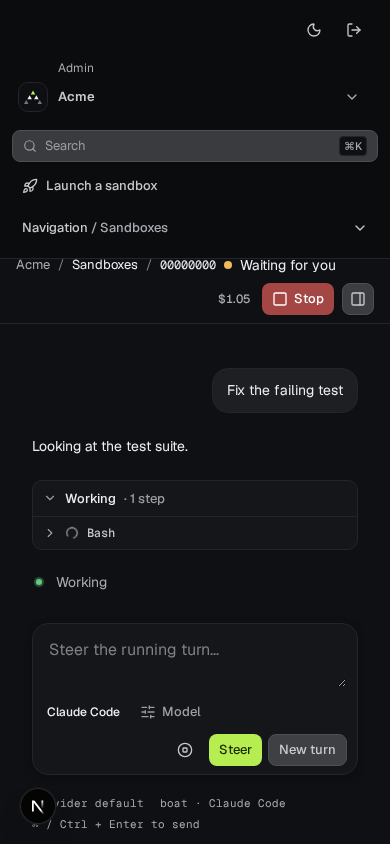
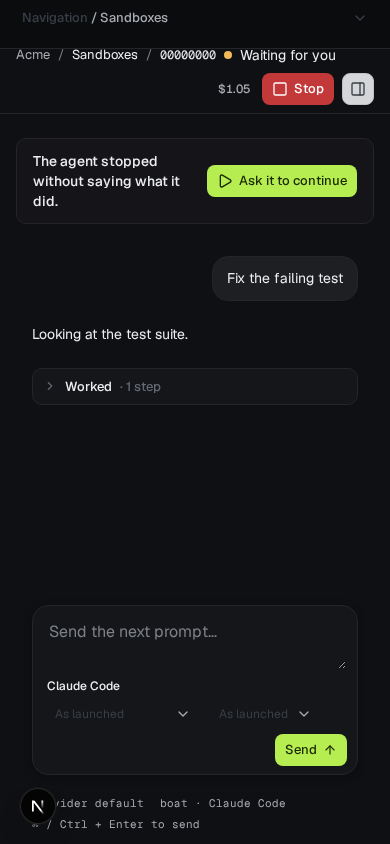
docs(dashboard): expand thread state and organization comparisons

diff --git a/docs/investigations/2511/README.md b/docs/investigations/2511/README.md
@@ -1,45 +1,89 @@
 # Sandbox thread fidelity evidence (#2511)
 
-Captured in this delivery session using Playwright Chromium 1254, the prototype served with `python3 -m http.server 8091 --directory docs/design/refonte-2026-11-16`, and fixture dashboard `bun run dev`. Linux libraries and font configuration were supplied under `/tmp`; no deployed service or provider was used.
+Current-session Playwright Chromium 1254 captures of prototype `Armada.dc.html`, served with `python3 -m http.server 8091 --directory docs/design/refonte-2026-11-16`, and fixture dashboard `bun run dev`. Source: `6eba3b417b3d788bb2a4d3808897939364fac7db`. Linux libraries/fonts were supplied locally under `/tmp`. No deployed service or provider was used.
 
-The fixture is Acme, signed in as Alice. Working uses the default recorded prompt/message/tool events. Other lifecycle captures change only the sandbox status with the existing fixture lifecycle endpoint; the retained history is unchanged. These are comparisons of layout/state controls, not identical task content. Prototype phone rows were selected by dispatching their click event because the prototype overlay intercepts pointer input.
+The default organization is Acme, signed in as Alice. Working uses the default recorded events. Waiting/stopped/failed use the existing fixture lifecycle/event endpoints, with completed or failed prompt outcomes and retained tool results. Starting retains queued/previous history. The diff captures use recorded Edit old/new payloads and Bash command/result events. Large captures use its existing seeded owner-visible sandboxes. An expired deadline is a lifecycle notice, not an invented `expired` sandbox status. Its prototype cell is empty because the prototype offers no dedicated expired thread.
 
-| State / viewport / theme | Prototype | Fixture |
+These compare layout and supported controls across different task content; they do not assert identical business data. Prototype phone rows were selected by dispatching click events because its fixed-width overlay intercepts pointer input. The prototype itself clips horizontally at 390px; the fixture retains a usable phone layout.
+
+| Organization / state / size / theme | Prototype | Fixture |
 | --- | --- | --- |
-| working / 1440×900 / dark | ![Prototype working-desktop-dark](prototype-working-desktop-dark.png) | ![Fixture working-desktop-dark](fixture-working-desktop-dark.png) |
-| working / 1440×900 / light | ![Prototype working-desktop-light](prototype-working-desktop-light.png) | ![Fixture working-desktop-light](fixture-working-desktop-light.png) |
-| working / 390×844 / dark | ![Prototype working-phone-dark](prototype-working-phone-dark.png) | ![Fixture working-phone-dark](fixture-working-phone-dark.png) |
-| working / 390×844 / light | ![Prototype working-phone-light](prototype-working-phone-light.png) | ![Fixture working-phone-light](fixture-working-phone-light.png) |
-| waiting / 1440×900 / dark | ![Prototype waiting-desktop-dark](prototype-waiting-desktop-dark.png) | ![Fixture waiting-desktop-dark](fixture-waiting-desktop-dark.png) |
-| waiting / 1440×900 / light | ![Prototype waiting-desktop-light](prototype-waiting-desktop-light.png) | ![Fixture waiting-desktop-light](fixture-waiting-desktop-light.png) |
-| waiting / 390×844 / dark | ![Prototype waiting-phone-dark](prototype-waiting-phone-dark.png) | ![Fixture waiting-phone-dark](fixture-waiting-phone-dark.png) |
-| waiting / 390×844 / light | ![Prototype waiting-phone-light](prototype-waiting-phone-light.png) | ![Fixture waiting-phone-light](fixture-waiting-phone-light.png) |
-| stopped / 1440×900 / dark | ![Prototype stopped-desktop-dark](prototype-stopped-desktop-dark.png) | ![Fixture stopped-desktop-dark](fixture-stopped-desktop-dark.png) |
-| stopped / 1440×900 / light | ![Prototype stopped-desktop-light](prototype-stopped-desktop-light.png) | ![Fixture stopped-desktop-light](fixture-stopped-desktop-light.png) |
-| stopped / 390×844 / dark | ![Prototype stopped-phone-dark](prototype-stopped-phone-dark.png) | ![Fixture stopped-phone-dark](fixture-stopped-phone-dark.png) |
-| stopped / 390×844 / light | ![Prototype stopped-phone-light](prototype-stopped-phone-light.png) | ![Fixture stopped-phone-light](fixture-stopped-phone-light.png) |
-| failed / 1440×900 / dark | ![Prototype failed-desktop-dark](prototype-failed-desktop-dark.png) | ![Fixture failed-desktop-dark](fixture-failed-desktop-dark.png) |
-| failed / 1440×900 / light | ![Prototype failed-desktop-light](prototype-failed-desktop-light.png) | ![Fixture failed-desktop-light](fixture-failed-desktop-light.png) |
-| failed / 390×844 / dark | ![Prototype failed-phone-dark](prototype-failed-phone-dark.png) | ![Fixture failed-phone-dark](fixture-failed-phone-dark.png) |
-| failed / 390×844 / light | ![Prototype failed-phone-light](prototype-failed-phone-light.png) | ![Fixture failed-phone-light](fixture-failed-phone-light.png) |
+| Acme / working / 1440×900 / dark | ![Prototype working-desktop-dark](prototype-working-desktop-dark.png) | ![Fixture Acme working-desktop-dark](fixture-working-desktop-dark.png) |
+| Acme / working / 1440×900 / light | ![Prototype working-desktop-light](prototype-working-desktop-light.png) | ![Fixture Acme working-desktop-light](fixture-working-desktop-light.png) |
+| Acme / working / 390×844 / dark | ![Prototype working-phone-dark](prototype-working-phone-dark.png) | ![Fixture Acme working-phone-dark](fixture-working-phone-dark.png) |
+| Acme / working / 390×844 / light | ![Prototype working-phone-light](prototype-working-phone-light.png) | ![Fixture Acme working-phone-light](fixture-working-phone-light.png) |
+| Acme / waiting / 1440×900 / dark | ![Prototype waiting-desktop-dark](prototype-waiting-desktop-dark.png) | ![Fixture Acme waiting-desktop-dark](fixture-waiting-desktop-dark.png) |
+| Acme / waiting / 1440×900 / light | ![Prototype waiting-desktop-light](prototype-waiting-desktop-light.png) | ![Fixture Acme waiting-desktop-light](fixture-waiting-desktop-light.png) |
+| Acme / waiting / 390×844 / dark | ![Prototype waiting-phone-dark](prototype-waiting-phone-dark.png) | ![Fixture Acme waiting-phone-dark](fixture-waiting-phone-dark.png) |
+| Acme / waiting / 390×844 / light | ![Prototype waiting-phone-light](prototype-waiting-phone-light.png) | ![Fixture Acme waiting-phone-light](fixture-waiting-phone-light.png) |
+| Acme / starting / 1440×900 / dark | ![Prototype starting-desktop-dark](prototype-starting-desktop-dark.png) | ![Fixture Acme starting-desktop-dark](fixture-starting-desktop-dark.png) |
+| Acme / starting / 1440×900 / light | ![Prototype starting-desktop-light](prototype-starting-desktop-light.png) | ![Fixture Acme starting-desktop-light](fixture-starting-desktop-light.png) |
+| Acme / starting / 390×844 / dark | ![Prototype starting-phone-dark](prototype-starting-phone-dark.png) | ![Fixture Acme starting-phone-dark](fixture-starting-phone-dark.png) |
+| Acme / starting / 390×844 / light | ![Prototype starting-phone-light](prototype-starting-phone-light.png) | ![Fixture Acme starting-phone-light](fixture-starting-phone-light.png) |
+| Acme / stopped / 1440×900 / dark | ![Prototype stopped-desktop-dark](prototype-stopped-desktop-dark.png) | ![Fixture Acme stopped-desktop-dark](fixture-stopped-desktop-dark.png) |
+| Acme / stopped / 1440×900 / light | ![Prototype stopped-desktop-light](prototype-stopped-desktop-light.png) | ![Fixture Acme stopped-desktop-light](fixture-stopped-desktop-light.png) |
+| Acme / stopped / 390×844 / dark | ![Prototype stopped-phone-dark](prototype-stopped-phone-dark.png) | ![Fixture Acme stopped-phone-dark](fixture-stopped-phone-dark.png) |
+| Acme / stopped / 390×844 / light | ![Prototype stopped-phone-light](prototype-stopped-phone-light.png) | ![Fixture Acme stopped-phone-light](fixture-stopped-phone-light.png) |
+| Acme / failed / 1440×900 / dark | ![Prototype failed-desktop-dark](prototype-failed-desktop-dark.png) | ![Fixture Acme failed-desktop-dark](fixture-failed-desktop-dark.png) |
+| Acme / failed / 1440×900 / light | ![Prototype failed-desktop-light](prototype-failed-desktop-light.png) | ![Fixture Acme failed-desktop-light](fixture-failed-desktop-light.png) |
+| Acme / failed / 390×844 / dark | ![Prototype failed-phone-dark](prototype-failed-phone-dark.png) | ![Fixture Acme failed-phone-dark](fixture-failed-phone-dark.png) |
+| Acme / failed / 390×844 / light | ![Prototype failed-phone-light](prototype-failed-phone-light.png) | ![Fixture Acme failed-phone-light](fixture-failed-phone-light.png) |
+| Acme / diff-hidden / 1440×900 / dark | ![Prototype diff-hidden-desktop-dark](prototype-diff-hidden-desktop-dark.png) | ![Fixture Acme diff-hidden-desktop-dark](fixture-diff-hidden-desktop-dark.png) |
+| Acme / diff-hidden / 1440×900 / light | ![Prototype diff-hidden-desktop-light](prototype-diff-hidden-desktop-light.png) | ![Fixture Acme diff-hidden-desktop-light](fixture-diff-hidden-desktop-light.png) |
+| Acme / diff-hidden / 390×844 / dark | ![Prototype diff-hidden-phone-dark](prototype-diff-hidden-phone-dark.png) | ![Fixture Acme diff-hidden-phone-dark](fixture-diff-hidden-phone-dark.png) |
+| Acme / diff-hidden / 390×844 / light | ![Prototype diff-hidden-phone-light](prototype-diff-hidden-phone-light.png) | ![Fixture Acme diff-hidden-phone-light](fixture-diff-hidden-phone-light.png) |
+| Acme / diff-shown / 1440×900 / dark | ![Prototype diff-shown-desktop-dark](prototype-diff-shown-desktop-dark.png) | ![Fixture Acme diff-shown-desktop-dark](fixture-diff-shown-desktop-dark.png) |
+| Acme / diff-shown / 1440×900 / light | ![Prototype diff-shown-desktop-light](prototype-diff-shown-desktop-light.png) | ![Fixture Acme diff-shown-desktop-light](fixture-diff-shown-desktop-light.png) |
+| Acme / diff-shown / 390×844 / dark | ![Prototype diff-shown-phone-dark](prototype-diff-shown-phone-dark.png) | ![Fixture Acme diff-shown-phone-dark](fixture-diff-shown-phone-dark.png) |
+| Acme / diff-shown / 390×844 / light | ![Prototype diff-shown-phone-light](prototype-diff-shown-phone-light.png) | ![Fixture Acme diff-shown-phone-light](fixture-diff-shown-phone-light.png) |
+| Acme / expired / 1440×900 / dark | No dedicated prototype state | ![Fixture Acme expired-desktop-dark](fixture-expired-desktop-dark.png) |
+| Acme / expired / 1440×900 / light | No dedicated prototype state | ![Fixture Acme expired-desktop-light](fixture-expired-desktop-light.png) |
+| Acme / expired / 390×844 / dark | No dedicated prototype state | ![Fixture Acme expired-phone-dark](fixture-expired-phone-dark.png) |
+| Acme / expired / 390×844 / light | No dedicated prototype state | ![Fixture Acme expired-phone-light](fixture-expired-phone-light.png) |
+| Large / working / 1440×900 / dark | ![Prototype working-desktop-dark](prototype-working-desktop-dark.png) | ![Fixture Large working-desktop-dark](fixture-large-working-desktop-dark.png) |
+| Large / working / 1440×900 / light | ![Prototype working-desktop-light](prototype-working-desktop-light.png) | ![Fixture Large working-desktop-light](fixture-large-working-desktop-light.png) |
+| Large / working / 390×844 / dark | ![Prototype working-phone-dark](prototype-working-phone-dark.png) | ![Fixture Large working-phone-dark](fixture-large-working-phone-dark.png) |
+| Large / working / 390×844 / light | ![Prototype working-phone-light](prototype-working-phone-light.png) | ![Fixture Large working-phone-light](fixture-large-working-phone-light.png) |
+| Large / waiting / 1440×900 / dark | ![Prototype waiting-desktop-dark](prototype-waiting-desktop-dark.png) | ![Fixture Large waiting-desktop-dark](fixture-large-waiting-desktop-dark.png) |
+| Large / waiting / 1440×900 / light | ![Prototype waiting-desktop-light](prototype-waiting-desktop-light.png) | ![Fixture Large waiting-desktop-light](fixture-large-waiting-desktop-light.png) |
+| Large / waiting / 390×844 / dark | ![Prototype waiting-phone-dark](prototype-waiting-phone-dark.png) | ![Fixture Large waiting-phone-dark](fixture-large-waiting-phone-dark.png) |
+| Large / waiting / 390×844 / light | ![Prototype waiting-phone-light](prototype-waiting-phone-light.png) | ![Fixture Large waiting-phone-light](fixture-large-waiting-phone-light.png) |
+| Large / stopped / 1440×900 / dark | ![Prototype stopped-desktop-dark](prototype-stopped-desktop-dark.png) | ![Fixture Large stopped-desktop-dark](fixture-large-stopped-desktop-dark.png) |
+| Large / stopped / 1440×900 / light | ![Prototype stopped-desktop-light](prototype-stopped-desktop-light.png) | ![Fixture Large stopped-desktop-light](fixture-large-stopped-desktop-light.png) |
+| Large / stopped / 390×844 / dark | ![Prototype stopped-phone-dark](prototype-stopped-phone-dark.png) | ![Fixture Large stopped-phone-dark](fixture-large-stopped-phone-dark.png) |
+| Large / stopped / 390×844 / light | ![Prototype stopped-phone-light](prototype-stopped-phone-light.png) | ![Fixture Large stopped-phone-light](fixture-large-stopped-phone-light.png) |
+| Large / failed / 1440×900 / dark | ![Prototype failed-desktop-dark](prototype-failed-desktop-dark.png) | ![Fixture Large failed-desktop-dark](fixture-large-failed-desktop-dark.png) |
+| Large / failed / 1440×900 / light | ![Prototype failed-desktop-light](prototype-failed-desktop-light.png) | ![Fixture Large failed-desktop-light](fixture-large-failed-desktop-light.png) |
+| Large / failed / 390×844 / dark | ![Prototype failed-phone-dark](prototype-failed-phone-dark.png) | ![Fixture Large failed-phone-dark](fixture-large-failed-phone-dark.png) |
+| Large / failed / 390×844 / light | ![Prototype failed-phone-light](prototype-failed-phone-light.png) | ![Fixture Large failed-phone-light](fixture-large-failed-phone-light.png) |
+| Large / expired / 1440×900 / dark | No dedicated prototype state | ![Fixture Large expired-desktop-dark](fixture-large-expired-desktop-dark.png) |
+| Large / expired / 1440×900 / light | No dedicated prototype state | ![Fixture Large expired-desktop-light](fixture-large-expired-desktop-light.png) |
+| Large / expired / 390×844 / dark | No dedicated prototype state | ![Fixture Large expired-phone-dark](fixture-large-expired-phone-dark.png) |
+| Large / expired / 390×844 / light | No dedicated prototype state | ![Fixture Large expired-phone-light](fixture-large-expired-phone-light.png) |
 
 ## Delivered
 
-The shell owns the sole breadcrumb and adjacent status. Page-owned authorized actions are portalled to the shell. Details use an accessible icon toggle. Both cloud and Docker threads omit the redundant launch title block, and the conversation omits its extra heading/live badge while retaining conversation selection when applicable. Fact values use a consistent left-aligned second column. Full UUIDs remain available as breadcrumb tooltips.
+- One shell breadcrumb with adjacent status; full UUID available as a tooltip. Page-owned controls retain their existing authorization checks.
+- Extend invokes the existing time-extension action. Stop and an accessible icon details toggle live in the header.
+- Both cloud and Docker threads omit redundant launch-title and conversation/live headers. Multi-conversation selection remains available.
+- Fact values share a left-aligned second column. Model and effort selectors are visible directly in the composer; launch-pinned models remain read-only with their reason.
+- On a phone, organization/search/launch controls are in the existing navigation drawer. The mobile details portal replaces history without displacing the composer, even when nested disclosures remain open. Escape returns focus to Navigation.
 
 ## Validation
 
-- `bun run lint`: passes, with the pre-existing routines CSS specificity warning.
+- `bun run lint`: passes, with the existing routines CSS specificity warning.
 - `bun run typecheck`: passes.
-- `bun test apps/dashboard/test/chat.test.ts apps/dashboard/test/composer.test.ts`: 14 pass.
-- Playwright against the existing fixture development server, temporary config overriding only server startup: updated live-refresh and stop/resume journeys (`sandboxes.e2e.ts:147` and `:174`): 2 pass.
-- Independent review-code-dev Alibaba review: six source/journey files reviewed; reported static findings fixed and re-reviewed. Full acceptance remains incomplete.
+- `bun test apps/dashboard/test/chat.test.ts apps/dashboard/test/composer.test.ts apps/dashboard/test/model-picker.test.ts`: 18 pass.
+- Playwright against the existing fixture development server, temporary config overriding only server startup: three thread-control journeys (`sandboxes.e2e.ts:147`, `:174`, `:372`) pass. All seven journeys in `sandbox-viewport.e2e.ts` pass, including 390×664, independent history scrolling, nested details, custom-model resizing and clipped-control checks.
+- Live Large-phone checks: opening Navigation and pressing Escape restores focus to its opener.
+- One independent review-code-dev Alibaba review, resumed after fixes: all thirteen text files reviewed; no remaining static findings. The screenshot matrix and Gaps remain for coordinator visual acceptance.
 
-## Gaps — not acceptance evidence
+## Gaps
 
-- Composer model/effort remain in the disclosure, and the existing Steer / Send as new turn controls remain. Queue is a different contract; no queue semantics or launch-bound harness/tools switches were invented.
-- No completed matrix for Large organization, expired lifecycle, edited-file diff shown/hidden, command results, or pushed/running lines. Existing prototype working screenshots include its rich diff/command/push blocks; the default fixture history does not exercise those blocks.
-- Phone shell and composer still differ visibly from the prototype. These captures do not establish element-by-element fidelity.
-- The full dashboard journeys have not been run; only the two updated thread journeys were run.
+- Queue is a different server contract from the existing Send as new turn. Existing Steer / New turn actions retain their names and behavior instead of fabricating Queue semantics; the prototype's Steer/Queue mode selector is not implemented.
+- Harness/tools are launch-bound; no invented turn-level switches. Launch-pinned model/effort settings stay read-only.
+- Completed tool events lack completion timestamps, so groups show steps instead of fabricated durations. Edited files derive only from recorded Edit payloads; no fabricated aggregate file totals. Git push appears as a recorded command/result, not an invented domain event.
+- No dedicated expired-thread state is offered by the prototype. Expired-deadline captures show the real existing notice.
+- Full dashboard journeys were not run. The relevant thread-control and viewport journeys above were run. These captures document remaining visual differences and are not a claim of coordinator acceptance.
 
-Migration files: none. Deployment prerequisites: none added. No deployments, production reads/writes, or migrations performed.
+Migration files: none. Deployment prerequisites: none added. No deployments, production operations, or migrations performed.
